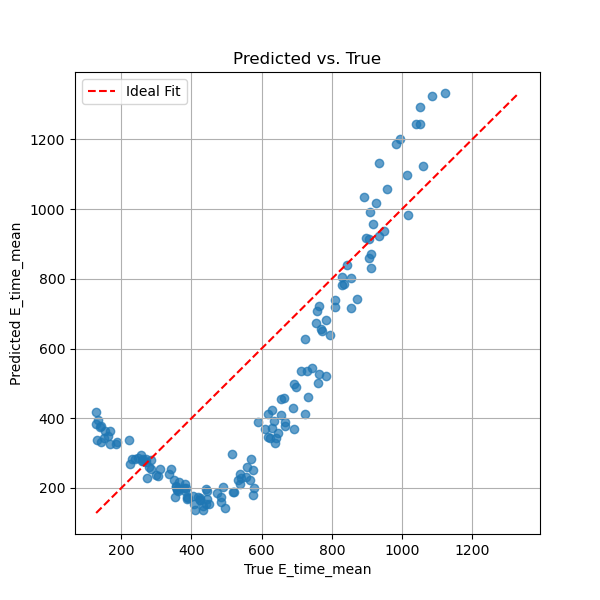
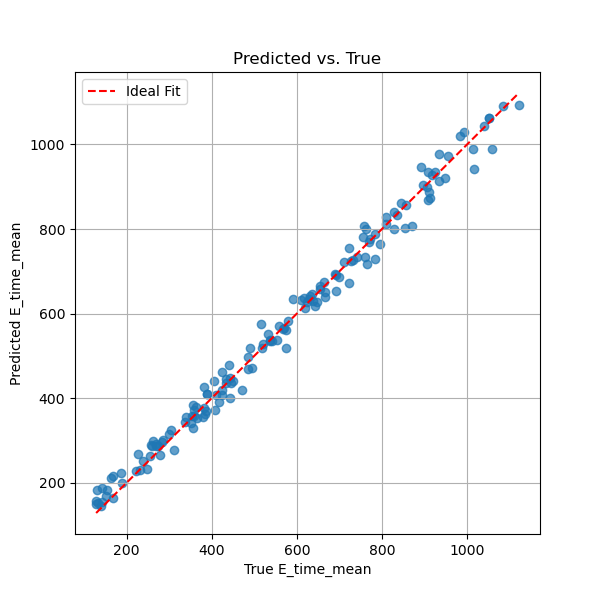
cleaned up code

diff --git a/main.py b/main.py
@@ -5,7 +5,7 @@ from sklearn.model_selection import train_test_split
 from sklearn.preprocessing import StandardScaler
 import torch
 from torch.utils.data import Dataset, DataLoader
-from l96 import FlexibleNN, train_model, run_experiments, plot_results, evaluate_model, plot_predictions_vs_true
+from l96 import FlexibleNN, train_model, evaluate_model, plot_loss_curves, plot_predictions_vs_true
 
 class L96Dataset(Dataset):
     def __init__(self, csv_file, data_dir, ids, scaler=None):
@@ -39,16 +39,7 @@ class L96Dataset(Dataset):
     def __getitem__(self, idx):
         return torch.tensor(self.inputs[idx]), torch.tensor(self.targets[idx])
 
-if __name__ == "__main__":
-  # Next steps: add arg parser here for data_dir, model params, training params, etc.
-  # For now, hardcode paths and params
-  data_dir = "data/l96_N40_T20_S600_1000"
-  csv_file = os.path.join(data_dir, "targets_time_mean_energy.csv")
-
-  # Read all IDs
-  df = pd.read_csv(csv_file)
-  ids = df['id'].tolist()
-
+def feed_forward_model(data_dir, csv_file, df, ids):
   # Train/val/test split
   train_ids, test_ids = train_test_split(ids, test_size=0.15, random_state=42)
   train_ids, val_ids = train_test_split(train_ids, test_size=0.176, random_state=42)  # 0.176*0.85 ≈ 0.15
@@ -71,30 +62,33 @@ if __name__ == "__main__":
   val_loader = DataLoader(val_ds, batch_size=16, shuffle=False)
   test_loader = DataLoader(test_ds, batch_size=16, shuffle=False)
 
-  architectures = [
-      [128, 64],
-      [64, 32],
-      [32, 16],
-      [16],
-      [8],
-  ]
-
-  results = run_experiments(input_dim=41, train_loader=train_loader, val_loader=val_loader, architectures=architectures, epochs=50)
-
-  plot_results(results)
-
-  # Train final model on chosen architecture
-  best_arch = min(results, key=results.get)  # architecture with lowest val loss
-  print(f"Best architecture: {best_arch}")
-
-  final_model = FlexibleNN(input_dim=41, hidden_layers=eval(best_arch))
-  final_model, _ = train_model(final_model, train_loader, val_loader, epochs=50)
+  model = FlexibleNN(input_dim=41, hidden_layers=[64, 32])
+  trained_model, history = train_model(model, train_loader, val_loader, epochs=50)
+  train_losses = history["train_loss"]
+  val_losses = history["val_loss"]
+  
+  plot_loss_curves(train_losses, val_losses)
 
   # Evaluate on test set
-  preds, trues = evaluate_model(final_model, test_loader)
+  preds, trues = evaluate_model(model, test_loader)
 
   # Example: compute RMSE
   rmse = np.sqrt(np.mean((preds - trues) ** 2))
   print(f"Test RMSE: {rmse:.6f}")
 
+  # Add baseline here (linear model)
+
   plot_predictions_vs_true(trues, preds)
+  
+
+if __name__ == "__main__":
+  # Next steps: add arg parser here for data_dir, model params, training params, etc.
+  # For now, hardcode paths and params
+  data_dir = "data/l96_N40_T20_S600_1000"
+  csv_file = os.path.join(data_dir, "targets_time_mean_energy.csv")
+
+  # Read all IDs
+  df = pd.read_csv(csv_file)
+  ids = df['id'].tolist()
+
+  feed_forward_model(data_dir, csv_file, df, ids)

diff --git a/l96.py b/l96.py
@@ -63,18 +63,6 @@ def train_model(model, train_loader, val_loader, epochs=50, lr=1e-3, device="cpu
     return model, history
 
 # ========================
-# Experiment Runner
-# ========================
-def run_experiments(input_dim, train_loader, val_loader, architectures, epochs=50, lr=1e-3, device="cpu"):
-    results = {}
-    for arch in architectures:
-        print(f"Training architecture: {arch}")
-        model = FlexibleNN(input_dim, hidden_layers=arch)
-        trained_model, history = train_model(model, train_loader, val_loader, epochs=epochs, lr=lr, device=device)
-        results[str(arch)] = history["val_loss"][-1]
-    return results
-
-# ========================
 # Evaluation
 # ========================
 def evaluate_model(model, test_loader, device="cpu"):
@@ -92,12 +80,17 @@ def evaluate_model(model, test_loader, device="cpu"):
 # ========================
 # Visualization
 # ========================
-def plot_results(results):
-    plt.plot(list(results.keys()), list(results.values()), marker="o")
-    plt.xlabel("Architecture")
-    plt.ylabel("Final Validation Loss")
-    plt.title("Performance vs Network Size - 50 epochs")
-    plt.xticks(rotation=45)
+def plot_loss_curves(train_losses, val_losses):
+    """Plot training and validation loss curves."""
+    plt.figure(figsize=(8,5))
+    plt.plot(train_losses, label="Train Loss")
+    plt.plot(val_losses, label="Validation Loss")
+    plt.xlabel("Epoch")
+    plt.ylabel("MSE Loss")
+    plt.title("Training and Validation Loss [64, 32]")
+    plt.legend()
+    plt.grid(True)
+    plt.savefig("loss_curves.png")
     plt.show()
 
 def plot_predictions_vs_true(y_true, y_pred):
